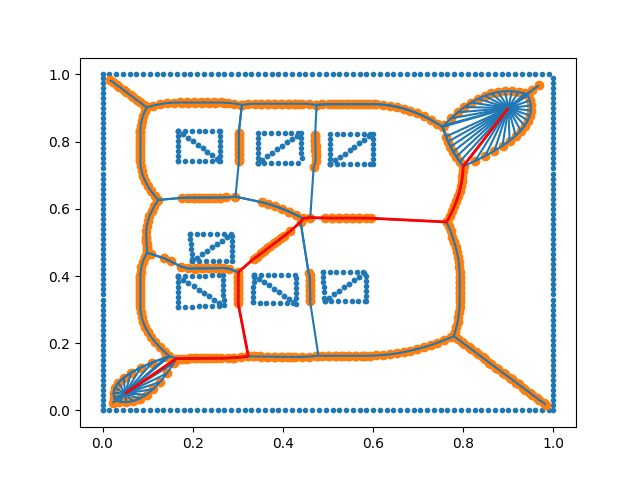
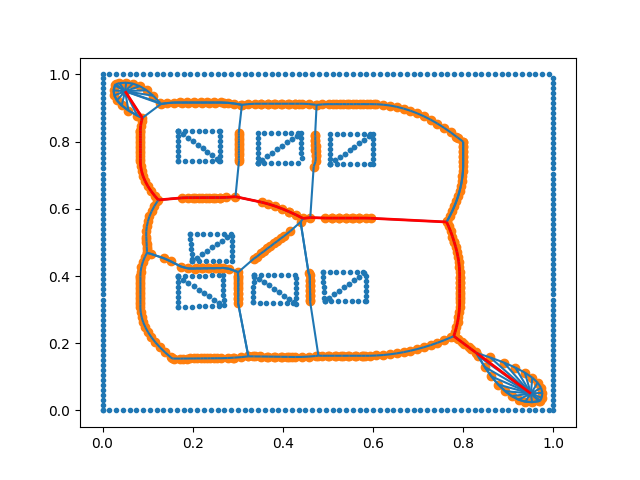
fix: finding unfinished vertex

diff --git a/voronoi/voronoi.py b/voronoi/voronoi.py
@@ -119,6 +119,9 @@ class PolygonVoronoi:
         # regenerate ridges
         self.__regenerate_voronoi(optimized_chains)
 
+        # regenerate chain by optimized value
+        self.__chains = self.__generate_chains()
+
         # calculate unfinished vertices and ridges
         unfinised_vertices = self.__unfinished_vertices()
         ridge_to_delete = self.__ridges_to_delete(unfinised_vertices)
@@ -282,8 +285,19 @@ class PolygonVoronoi:
         for key, value in dic.items():
             if len(value) == 1:
                 unfinished.append(key)
+
+        chain_vertices = np.array([], dtype=int)
+        for ele in unfinished:
+            for chain in self.__chains:
+                if ele == chain[0]: 
+                    chain_vertices = np.append(chain_vertices, chain[:-1])
+                    break
+                elif ele == chain[-1]:
+                    chain_vertices = np.append(chain_vertices, chain[1:])
+                    break
         
-        return unfinished
+        chain_vertices = np.sort(chain_vertices)
+        return chain_vertices
     
     # calculate vertices which are in convex
     def __vertices_in_polygon(self) -> list:

diff --git a/optimization_comparison.py b/optimization_comparison.py
@@ -80,6 +80,7 @@ PYTHON: 3.10.9
 |-----------------------------------------------|
 """
 
+
 from voronoi.voronoi import PolygonVoronoi, run_type
 from voronoi.geometry import *
 from voronoi.astar import Astar
@@ -162,7 +163,7 @@ def voronoi(epsilon, vor, start, end, result):
 
 if __name__ == '__main__':
     path = './testdata/'
-    file = 'testmap_3.png'
+    file = 'testmap_1.png'
     start = [0.05, 0.95]
     end = [0.95, 0.05]
     vor = image_detect(path+file, start, end)
